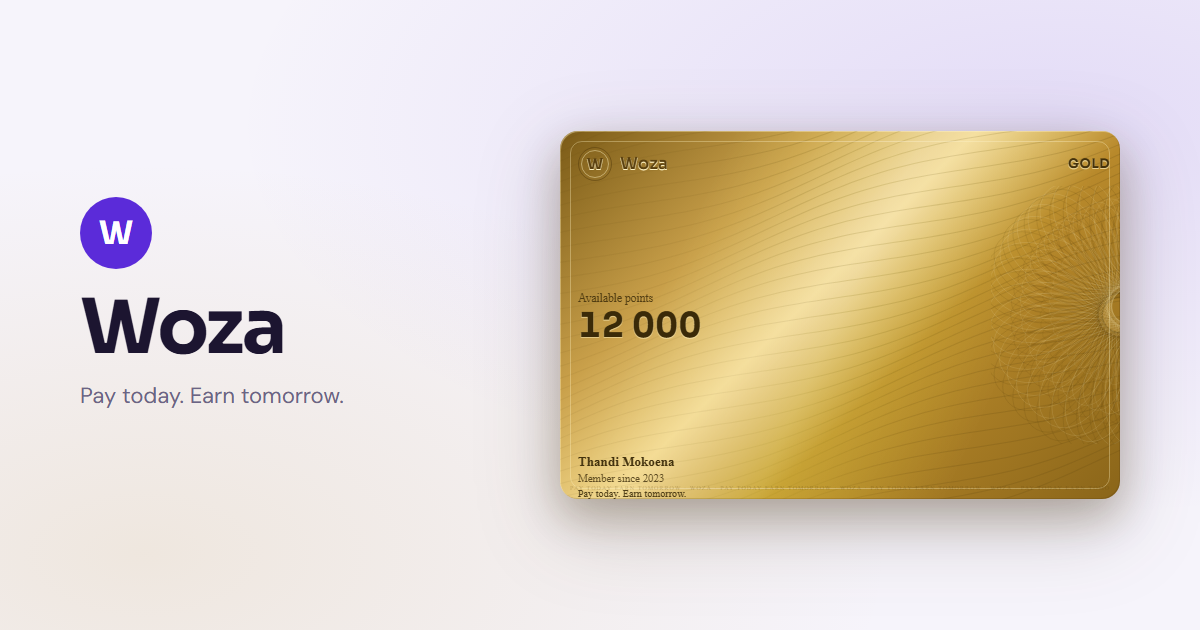
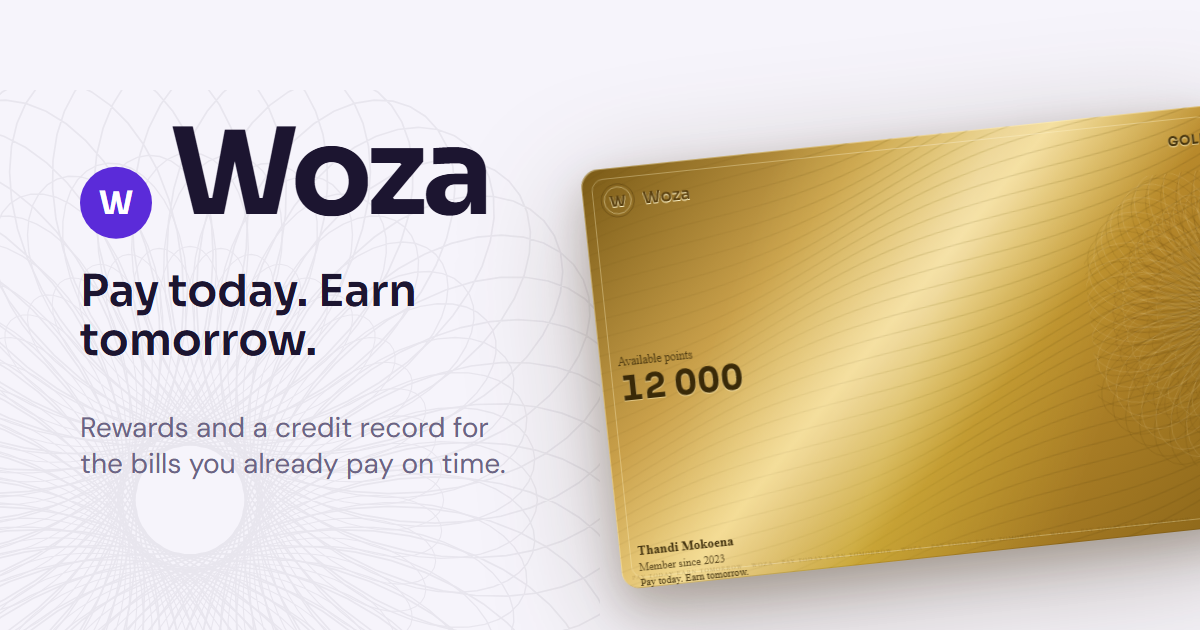
OG preview layout

diff --git a/static/og.html b/static/og.html
@@ -9,74 +9,120 @@
   <link href="https://fonts.googleapis.com/css2?family=DM+Sans:wght@400;500;600&family=Sora:wght@600;700&display=swap" rel="stylesheet" />
   <link rel="stylesheet" href="woza-card.css" />
   <style>
+    :root {
+      --bg: #F6F4FB;
+      --ink: #1C1530;
+      --muted: #6B6485;
+      --primary: #5B2BD9;
+    }
     html, body {
       margin: 0;
       width: 1200px;
       height: 630px;
       overflow: hidden;
-      background: #F6F4FB;
+      background: var(--bg);
     }
     .font-num { font-family: "Sora", sans-serif; font-weight: 700; font-variant-numeric: tabular-nums; }
     .og {
+      position: relative;
       width: 1200px;
       height: 630px;
-      box-sizing: border-box;
-      padding: 72px 80px;
-      display: flex;
-      align-items: center;
-      justify-content: space-between;
-      gap: 48px;
-      background:
-        radial-gradient(ellipse at 88% 20%, rgba(91, 43, 217, 0.12), transparent 55%),
-        radial-gradient(ellipse at 12% 88%, rgba(201, 162, 74, 0.16), transparent 50%),
-        #F6F4FB;
+      overflow: hidden;
+      background: var(--bg);
     }
-    .brand { max-width: 420px; }
+    .og-rosette {
+      position: absolute;
+      left: -220px;
+      bottom: -280px;
+      width: 820px;
+      height: 820px;
+      opacity: 0.06;
+      pointer-events: none;
+      z-index: 0;
+    }
+    .og-rosette svg { width: 100%; height: 100%; display: block; }
+    .brand {
+      position: absolute;
+      left: 80px;
+      top: 50%;
+      transform: translateY(-50%);
+      width: 440px;
+      z-index: 1;
+    }
+    .lockup {
+      display: flex;
+      flex-direction: row;
+      align-items: baseline;
+      gap: 18px;
+    }
     .mark {
       width: 72px;
       height: 72px;
       border-radius: 50%;
-      background: #5B2BD9;
+      background: var(--primary);
       color: #fff;
       display: flex;
       align-items: center;
       justify-content: center;
       font-family: "Sora", sans-serif;
       font-weight: 700;
-      font-size: 2rem;
-      margin-bottom: 22px;
+      font-size: 32px;
+      line-height: 1;
+      flex-shrink: 0;
     }
     .wordmark {
       font-family: "Sora", sans-serif;
       font-weight: 700;
-      font-size: 76px;
-      color: #1C1530;
-      letter-spacing: -0.03em;
-      line-height: 0.95;
+      font-size: 120px;
+      color: var(--ink);
+      letter-spacing: -0.04em;
+      line-height: 0.9;
     }
     .slogan {
+      font-family: "Sora", sans-serif;
+      font-weight: 600;
+      font-size: 44px;
+      color: var(--ink);
+      line-height: 1.12;
+      margin-top: 28px;
+    }
+    .pitch {
       font-family: "DM Sans", sans-serif;
-      font-size: 22px;
-      color: #6B6485;
+      font-weight: 400;
+      font-size: 28px;
+      color: var(--muted);
+      line-height: 1.3;
       margin-top: 18px;
-      line-height: 1.35;
     }
-    .card-wrap {
-      width: 560px;
-      flex-shrink: 0;
-      filter: drop-shadow(0 22px 40px rgba(60, 40, 10, 0.22));
+    .card-stage {
+      position: absolute;
+      width: 640px;
+      right: -60px;
+      /* 40px clearance + drop from -6deg around the right edge (640 * sin 6°) */
+      bottom: 107px;
+      transform: rotate(-6deg);
+      transform-origin: bottom right;
+      filter: drop-shadow(0 30px 60px rgba(60, 40, 10, 0.3));
+      z-index: 2;
     }
-    .card-wrap .membership-card { margin-bottom: 0; }
+    .card-stage .membership-card {
+      margin: 0;
+      width: 640px;
+    }
   </style>
 </head>
 <body>
   <div class="og">
+    <div class="og-rosette" id="ogRose" aria-hidden="true"></div>
     <div class="brand">
-      <div class="mark" aria-hidden="true">W</div>
-      <div class="wordmark">Woza</div>
+      <div class="lockup">
+        <div class="mark" aria-hidden="true">W</div>
+        <div class="wordmark">Woza</div>
+      </div>
       <p class="slogan">Pay today. Earn tomorrow.</p>
+      <p class="pitch">Rewards and a credit record for the bills you already pay on time.</p>
     </div>
-    <div class="card-wrap" id="card"></div>
+    <div class="card-stage" id="card"></div>
   </div>
   <script src="woza-card.js"></script>
   <script>
@@ -88,6 +134,12 @@
       member_since: "Oct 2023",
       available_points: 12000,
     }, false);
+    document.getElementById("ogRose").innerHTML =
+      '<svg viewBox="-120 -120 240 240" preserveAspectRatio="xMidYMid meet">' +
+      '<g transform="scale(1)"><use href="#woza-rose-58" stroke="#1C1530" stroke-width="0.5" fill="none"/></g>' +
+      '<g transform="scale(0.82)"><use href="#woza-rose-50" stroke="#1C1530" stroke-width="0.5" fill="none"/></g>' +
+      '<g transform="scale(0.64)"><use href="#woza-rose-42" stroke="#1C1530" stroke-width="0.5" fill="none"/></g>' +
+      "</svg>";
   </script>
 </body>
 </html>

diff --git a/static/index.html b/static/index.html
@@ -11,14 +11,14 @@
   <meta property="og:url" content="https://woza-rewards.onrender.com" />
   <meta property="og:title" content="Woza - Pay today. Earn tomorrow." />
   <meta property="og:description" content="Rewards and a credit record for the bills you already pay on time." />
-  <meta property="og:image" content="https://woza-rewards.onrender.com/static/og.png" />
+  <meta property="og:image" content="https://woza-rewards.onrender.com/static/og.png?v=2" />
   <meta property="og:image:width" content="1200" />
   <meta property="og:image:height" content="630" />
   <meta property="og:image:type" content="image/png" />
   <meta name="twitter:card" content="summary_large_image" />
   <meta name="twitter:title" content="Woza - Pay today. Earn tomorrow." />
   <meta name="twitter:description" content="Rewards and a credit record for the bills you already pay on time." />
-  <meta name="twitter:image" content="https://woza-rewards.onrender.com/static/og.png" />
+  <meta name="twitter:image" content="https://woza-rewards.onrender.com/static/og.png?v=2" />
   <link rel="manifest" href="/static/manifest.json" />
   <link rel="icon" href="/static/icon.svg" type="image/svg+xml" />
   <link rel="preconnect" href="https://fonts.googleapis.com" />
